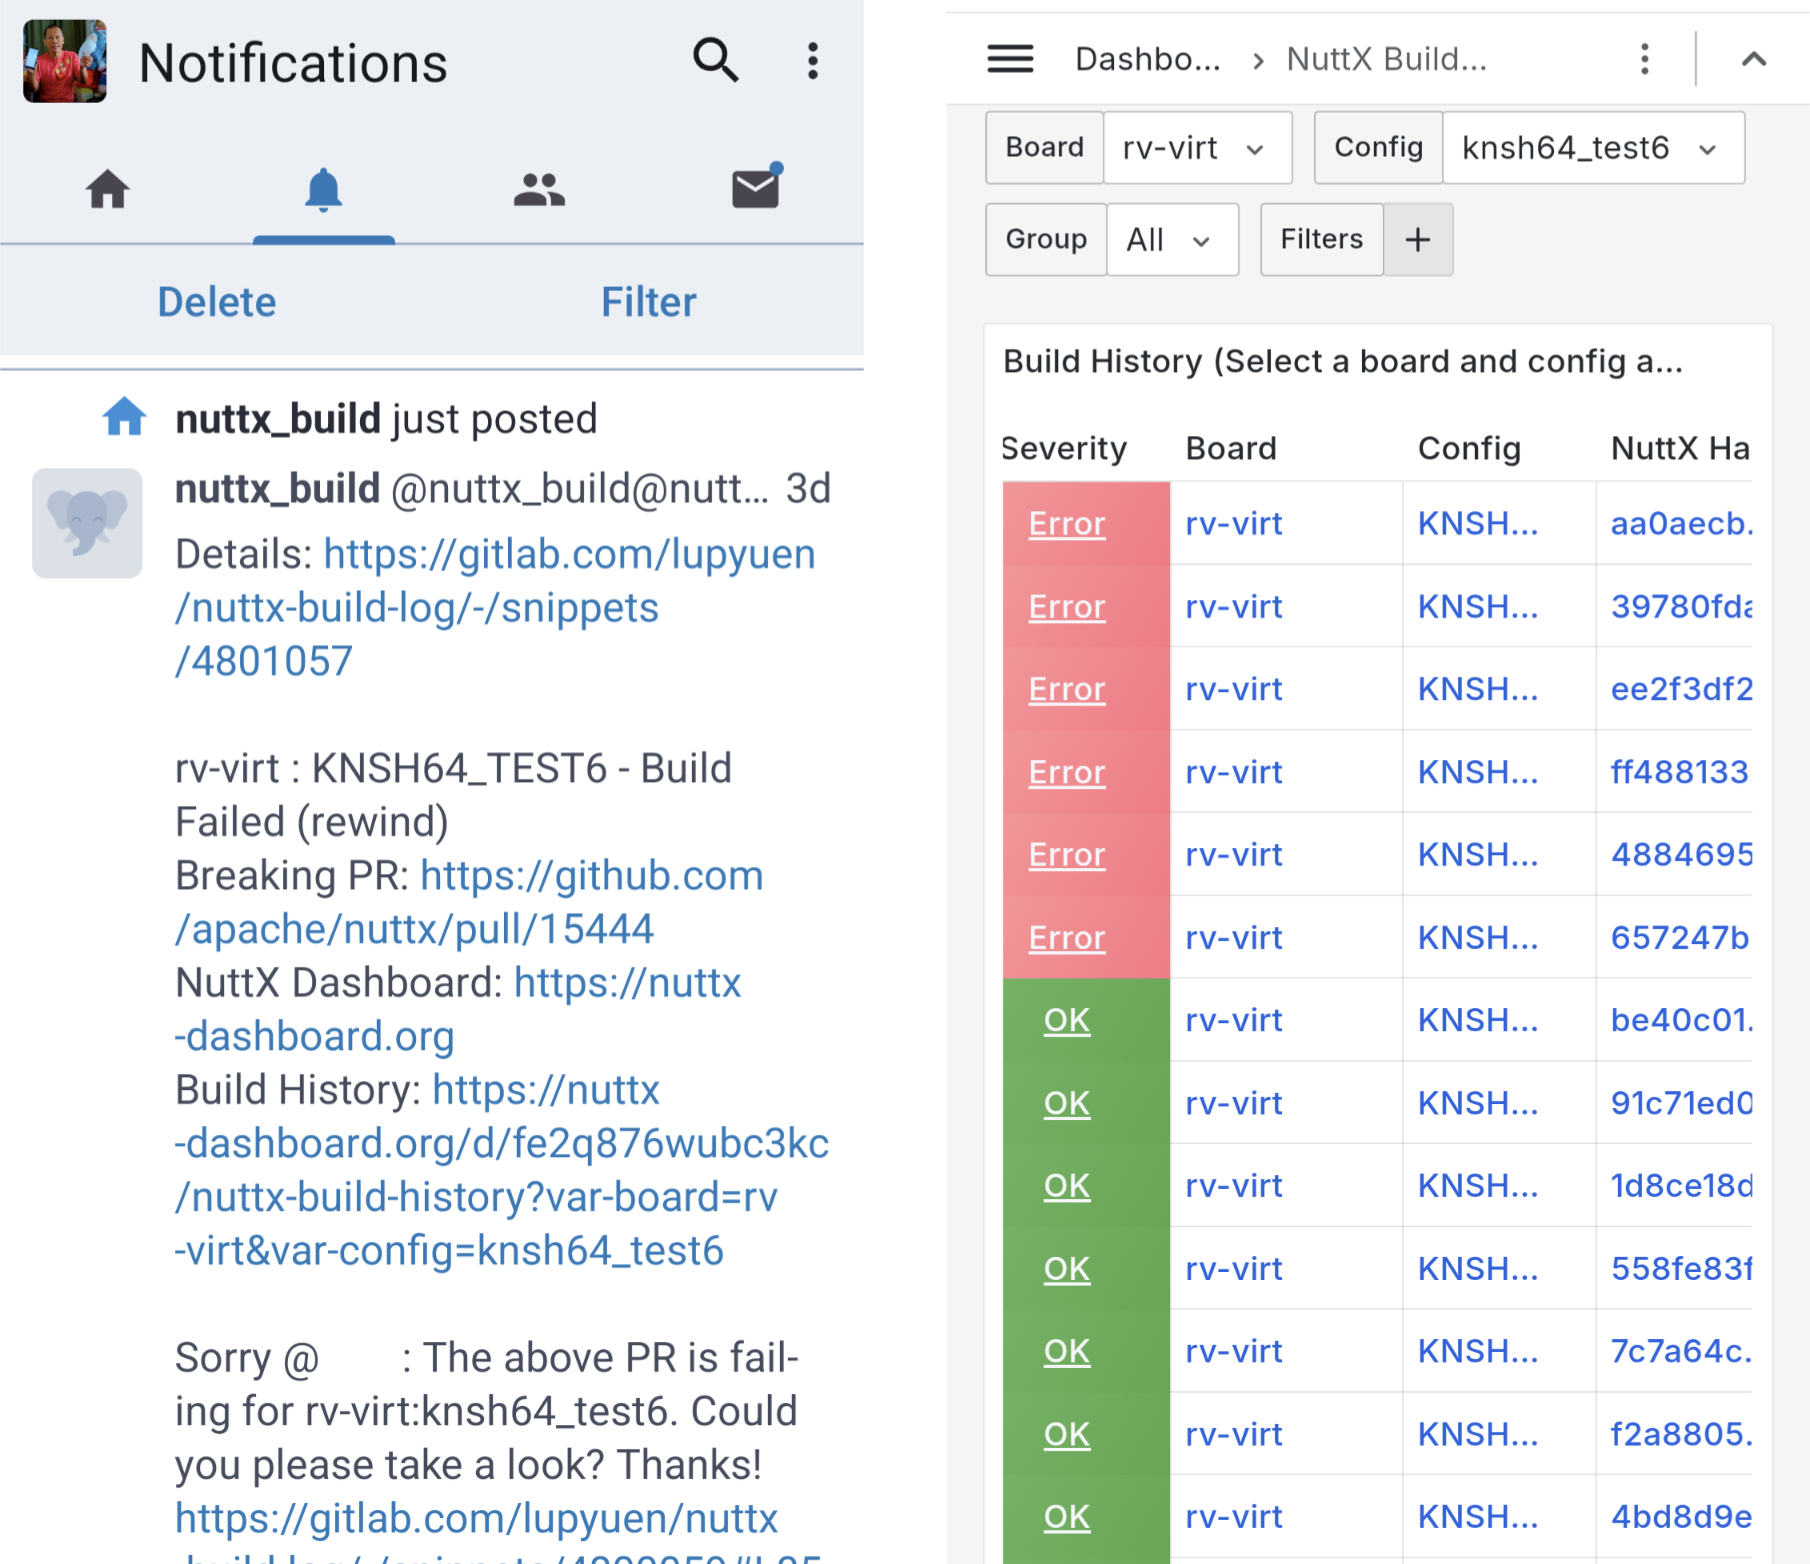
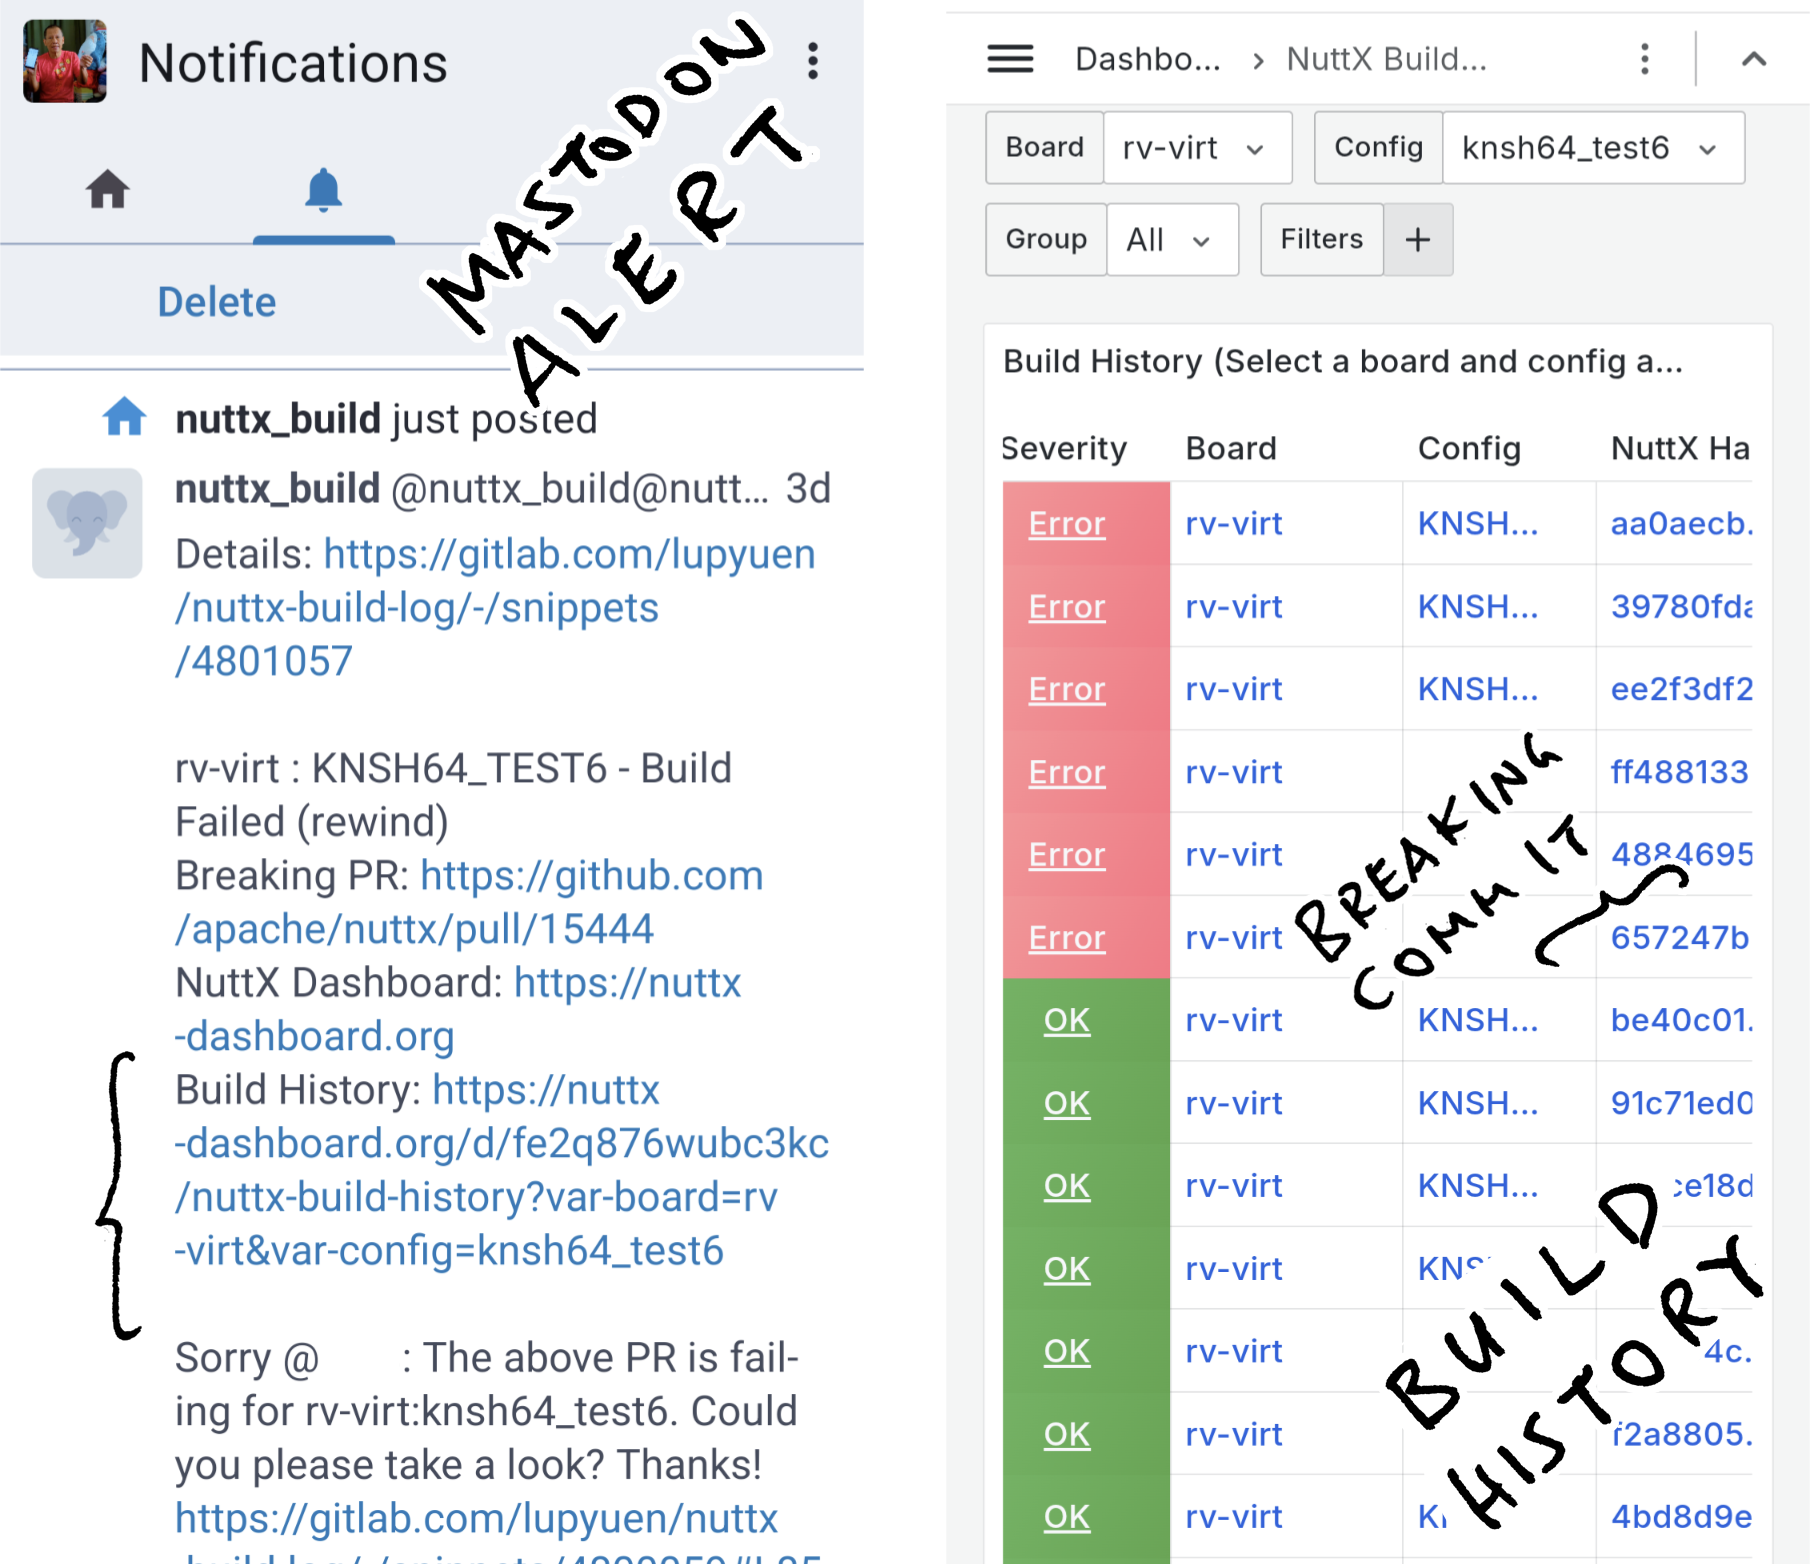
Update article

diff --git a/src/rewind.md b/src/rewind.md
@@ -697,7 +697,7 @@ rv-virt : KNSH64_TEST - Build Failed (rewind)
 
     When we Rewind 20 Commits, we'll know if the bug is Reliably Reproducible.
     
-    TODO: Pic of this bug is NOT reliably reproducible
+    ![Our bug is NOT Reliably Reproducible](https://lupyuen.org/images/rewind-history2.png)
 
 1.  _Why aren't we using Docker?_
 
